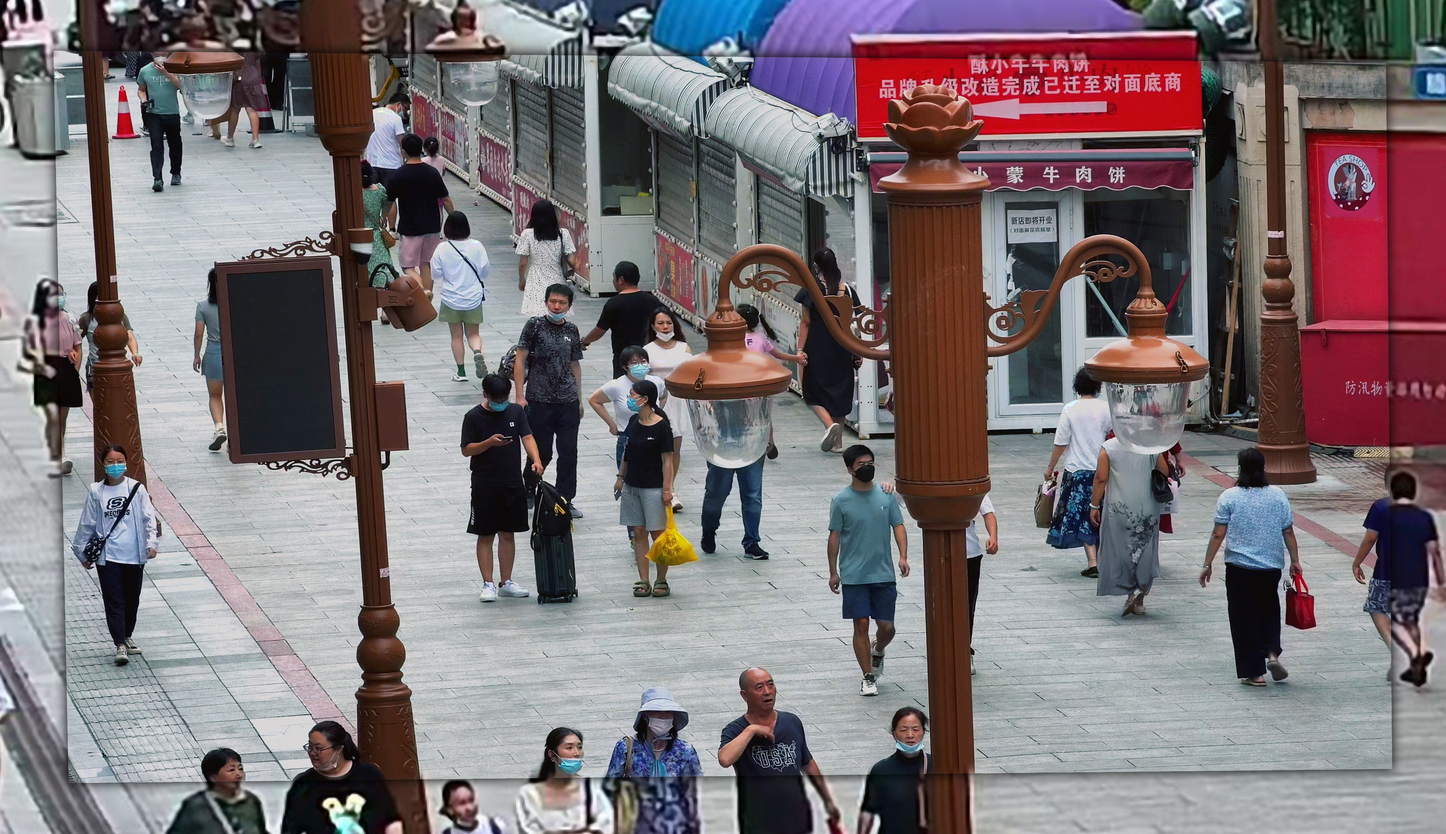
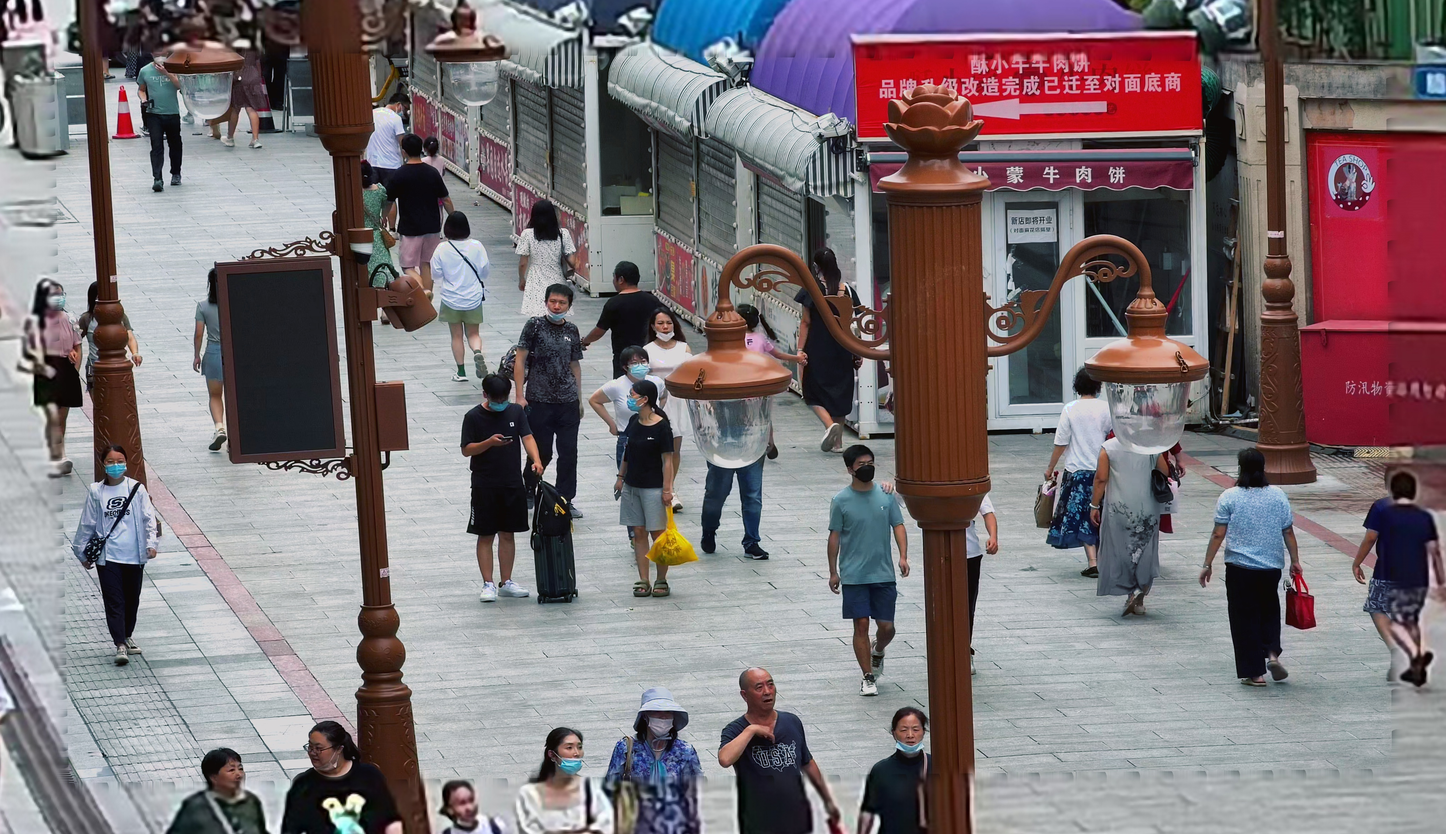
Refresh three-scene x6 evaluation outputs

diff --git a/docs/three_region_stitch.md b/docs/three_region_stitch.md
@@ -92,7 +92,7 @@ three-region-stitch --example examples/three_region_stitch/20220806141041707_cam
 
 | 场景 | SIFT PSNR（dB） | 纯点线 PSNR（dB） | 三分区域 PSNR（dB） | SIFT SSIM | 纯点线 SSIM | 三分区域 SSIM |
 | --- | ---: | ---: | ---: | ---: | ---: | ---: |
-| 商街人群 | 16.665 | 16.533 | **17.395** | 0.5552 | 0.5551 | **0.5879** |
+| 商街人群 | 16.778 | 16.641 | **18.128** | 0.5604 | 0.5602 | **0.6076** |
 | 城市道路 | **20.497** | 18.627 | 20.579 | **0.6607** | 0.6234 | **0.6788** |
 | 运动场人群 | 16.727 | 16.766 | **17.791** | 0.5651 | 0.5613 | **0.7276** |
 
